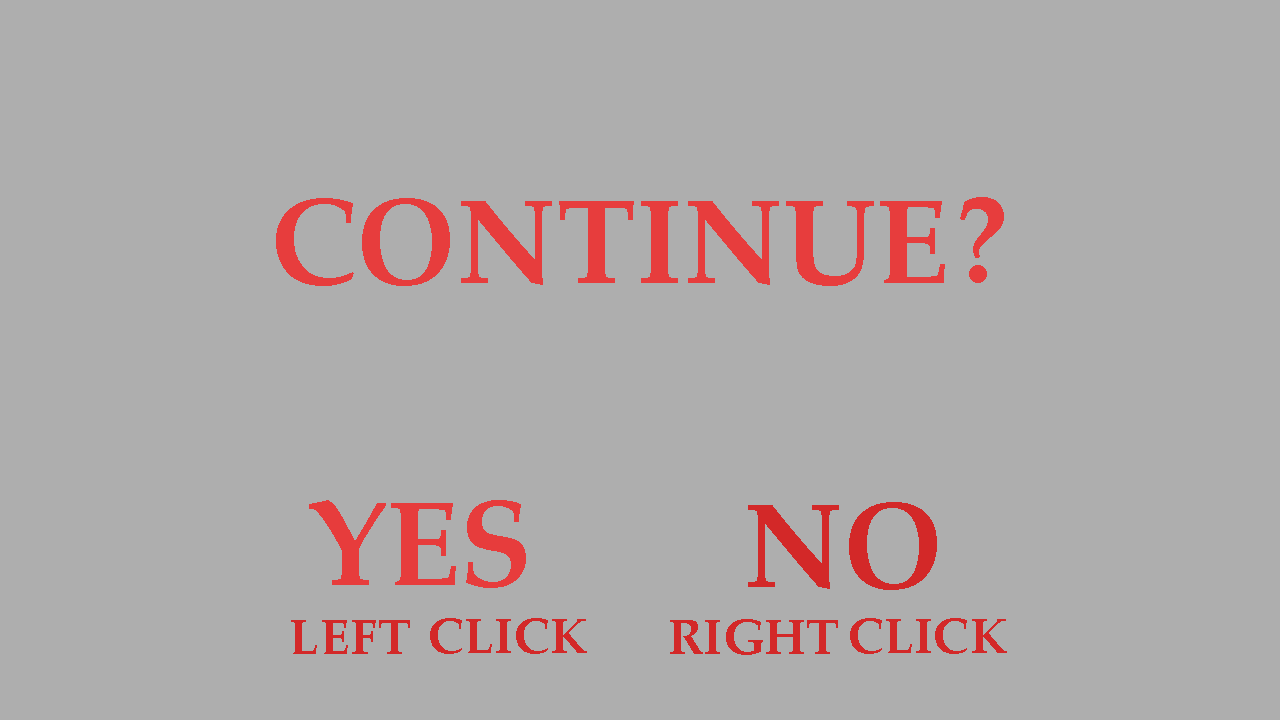
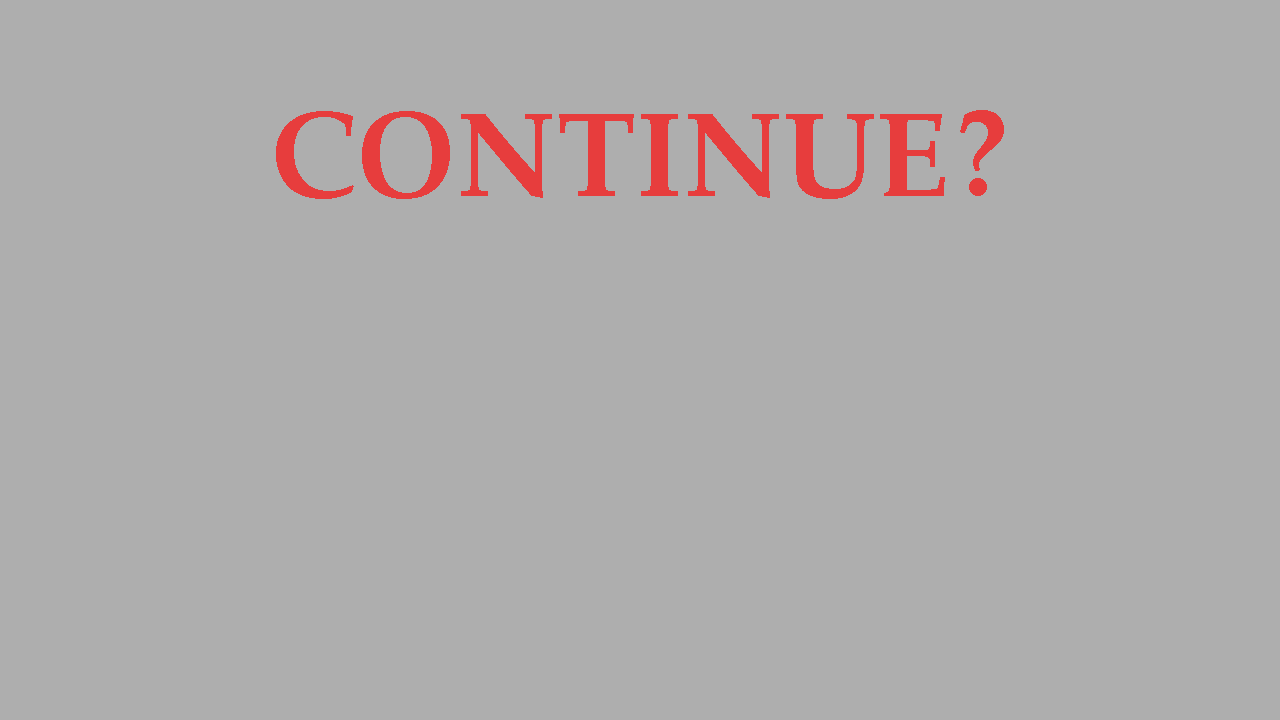
リソースの変更 コンテニュー画面の形変更 ゲーム画面の端に発砲の文字表示

diff --git a/Application/Scene/GameScene.cpp b/Application/Scene/GameScene.cpp
@@ -40,10 +40,20 @@ void GameScene::Initialize(DirectXCommon* dxComon)
 	Sprite::LoadTexture(30, L"Resources/DamageEfect.png");
 	Sprite::LoadTexture(31, L"Resources/Mision.png");
 	Sprite::LoadTexture(32, L"Resources/CONTINUE.png");
+	Sprite::LoadTexture(33, L"Resources/Shot.png");
+	Sprite::LoadTexture(34, L"Resources/mark2.png");
+	Sprite::LoadTexture(35, L"Resources/Yes.png");
+	Sprite::LoadTexture(36, L"Resources/No.png");
+
 	//スプライトの生成
 	DamageEfectSp.reset(Sprite::SpriteCreate(30, { 0.0f, 0.0f }, DamageEfectColor));
 	Clear.reset(Sprite::SpriteCreate(31, { 0.0f,0.0f }));
 	Conteniu.reset(Sprite::SpriteCreate(32, { 0.0f,0.0f }));
+	Shot.reset(Sprite::SpriteCreate(33, { 0.f,WinApp::window_height - 150 }));
+	ReticleForGameOver.reset(Sprite::SpriteCreate(34, ReticlePosition, ReticleColor, SpriteAnchorPoint));
+	Yes.reset(Sprite::SpriteCreate(35, YesPosition,YesColor,SpriteAnchorPoint));
+	No.reset(Sprite::SpriteCreate(36, NoPosition,NoColor,SpriteAnchorPoint));
+
 
 	//モデルの読み込み
 	Sphere = Object3d::Create(ModelManager::GetInstance()->GetModel(6));
@@ -165,7 +175,7 @@ void GameScene::StatusSet()
 	for (int i = 2; i < 5; i++) {
 		lightGroupe->SetSpotLightDir(i, XMVECTOR({ SearchLightDir[i - 2].x, SearchLightDir[i - 2].y, SearchLightDir[i - 2].z }));
 		lightGroupe->SetSpotLightPos(i, SearchLightPos[i - 2]);
-		lightGroupe->SetSpotLightColor(i, SearchLightColor[i-2]);
+		lightGroupe->SetSpotLightColor(i, SearchLightColor[i - 2]);
 		lightGroupe->SetSpotLightAtten(i, SearchLightAtten);
 		lightGroupe->SetSpotLightFactorAngle(i, SearchLightFactorAngle);
 	}
@@ -247,17 +257,7 @@ void GameScene::Update()
 			}
 		}
 	}
-	if (DethFlag == true) {
-		PostCol.x = 0;
-		if (Mouse::GetInstance()->PushClick(1)) {
-			BaseScene* scene_ = new TitleScene(sceneManager_);
-			sceneManager_->SetNextScene(scene_);
-		}
-		else if (Mouse::GetInstance()->PushClick(0)) {
-			BaseScene* scene_ = new GameScene(sceneManager_);
-			sceneManager_->SetNextScene(scene_);
-		}
-	}
+
 
 	if (DamageHitFlag == true) {
 		DamageEfectColor.w -= 0.02f;
@@ -277,15 +277,21 @@ void GameScene::Update()
 		StatusSet();
 		AllUpdata();
 	}
+	else if(StopUpdateFlag==true&&ClearFlag==false)
+	{
+		GameOverProcess();
+	}
 	//ゴールに着いたらクリア画面を表示
 	if (ClearFlag == true) {
-		if (Mouse::GetInstance()->PushClick(0)) {
+		if (Mouth::GetInstance()->PushClick(0)) {
 			BaseScene* scene_ = new TitleScene(sceneManager_);
 			sceneManager_->SetNextScene(scene_);
 		}
 	}
 	postEffect->Update(PostCol);
 	lightGroupe->Update();
+
+	
 }
 
 //オブジェクトの描画処理
@@ -313,6 +319,7 @@ void GameScene::ObjDraw(DirectXCommon* dxCommon)
 void GameScene::SpriteDraw(DirectXCommon* dxCommon)
 {
 	Sprite::PreDraw(dxCommon->GetCmdList());
+	Shot->Draw();
 	Act->SpriteDraw();
 	if (DamageHitFlag == true) {
 		DamageEfectSp->Draw();
@@ -322,6 +329,19 @@ void GameScene::SpriteDraw(DirectXCommon* dxCommon)
 	}
 	if (DethFlag == true) {
 		Conteniu->Draw();
+		//if (NoCursorInFlag == false) {
+			No->Draw();
+		//}
+		/*else {
+			NoAfter->Draw();
+		}*/
+		//if (YesCursorInFlag == false) {
+			Yes->Draw();
+		//}
+		/*else {
+			YesAfter->Draw();
+		}*/
+		ReticleForGameOver->Draw();
 	}
 	Sprite::PostDraw();
 }
@@ -382,6 +402,7 @@ void GameScene::Finalize()
 	delete postEffect;
 	Conteniu.reset();
 	Clear.reset();
+	Shot.reset();
 	delete Bgm;
 	delete light;
 	delete lightGroupe;
@@ -447,34 +468,11 @@ void GameScene::SpotLightMove()
 	SearchLightDir[1].z = Action::GetInstance()->EasingOut(LightDirEasingTime, 5 - 0);
 	SearchLightDir[2].x = Action::GetInstance()->EasingOut(LightDirEasingTime, 5 - 0);
 
-	Action::GetInstance()->DebugMove(SearchLightPos[0]);
-	Action::GetInstance()->DebugMove(SearchLightDir[0]);
-
-	if (Input::GetInstance()->PushKey(DIK_UP)) {
-		SearchLightDir[0].y += 0.1f;
-	}
-	if (Input::GetInstance()->PushKey(DIK_DOWN)) {
-		SearchLightDir[0].y -= 0.1f;
-	}
-	if (Input::GetInstance()->PushKey(DIK_RIGHT)) {
-		SearchLightDir[0].x += 0.1f;
-	}
-	if (Input::GetInstance()->PushKey(DIK_LEFT)) {
-		SearchLightDir[0].x -= 0.1f;
-	}
-	if (Input::GetInstance()->PushKey(DIK_L)) {
-		SearchLightDir[0].z += 0.1f;
-	}
-	if (Input::GetInstance()->PushKey(DIK_M)) {
-		SearchLightDir[0].z -= 0.1f;
-	}
-
-
 	SearchLightDir[0].z = Action::GetInstance()->EasingOut(time, EndPointZ - StartPointZ);
 	SearchLightDir[1].x = Action::GetInstance()->EasingOut(time, EndPointX - StartPointX);
 	SearchLightDir[2].z = Action::GetInstance()->EasingOut(time, EbdPointZ2 - StartPointZ2);
 
-	
+
 
 	bool MoveFlag = Act->GetMove();
 
@@ -486,7 +484,7 @@ void GameScene::SpotLightMove()
 			ColorTimeRed += 0.01f;
 		}
 
-		FieldSpotLightColor.x = Action::GetInstance()->EasingOut(ColorTimeRed,EndColorRed-StartColorRed ) + 0.9f;
+		FieldSpotLightColor.x = Action::GetInstance()->EasingOut(ColorTimeRed, EndColorRed - StartColorRed) + 0.9f;
 		FieldSpotLightColor.y = Action::GetInstance()->EasingOut(ColorTime, EndColor - StartColor);
 	}
 
@@ -503,6 +501,53 @@ void GameScene::SpotLightMove()
 			Easing = false;
 			EasingChange = false;
 		}
+	}
+}
+
+void GameScene::GameOverProcess()
+{
+
+	Mouth::GetInstance()->MouthMoveSprite(ReticlePosition);
+	ReticleForGameOver->SetPosition(ReticlePosition);
+	if (DethFlag == true) {
+		PostCol.x = 0;
+		CheckcCursorIn(ReticlePosition, YesPosition, 100, 50, YesCursorInFlag);
+		CheckcCursorIn(ReticlePosition, NoPosition, 100, 50, NoCursorInFlag);
+
+		if (YesCursorInFlag == true) {
+			YesColor = { 1.f,0.f,0.f,1.f };
+			if (Mouth::GetInstance()->PushClick(0)) {
+				BaseScene* scene_ = new GameScene(sceneManager_);
+				sceneManager_->SetNextScene(scene_);
+			}
+		}
+		else {
+			YesColor = { 1.f,1.f,1.f,1.f };
+		}
+
+		if (NoCursorInFlag == true) {
+			NoColor = { 1.f,0.f,0.f,1.f };
+			if (Mouth::GetInstance()->PushClick(0)) {
+				BaseScene* scene_ = new TitleScene(sceneManager_);
+				sceneManager_->SetNextScene(scene_);
+			}
+		}
+		else {
+			NoColor = { 1.f,1.f,1.f,1.f };
+		}
+		Yes->SetColor(YesColor);
+		No->SetColor(NoColor);
+	}
+}
+
+void GameScene::CheckcCursorIn(const XMFLOAT2& cursor_Pos, const XMFLOAT2& check_Pos, float radX, float radY, bool& CheckFlag)
+{
+	if ((check_Pos.x-radX <= cursor_Pos.x && check_Pos.x + radX >= cursor_Pos.x)
+		&& (check_Pos.y-radY<= cursor_Pos.y && check_Pos.y + radY >= cursor_Pos.y)) {
+		CheckFlag = true;
+	}
+	else {
+		CheckFlag = false;
 	}
 }
 

diff --git a/Application/Scene/GameScene.h b/Application/Scene/GameScene.h
@@ -38,63 +38,61 @@ public://メンバ関数
 	/// </summary>
 	/// <param name="sceneManager_"></param>
 	GameScene(SceneManager* sceneManager_);
-
 	/// <summary>
 	/// 初期化処理
 	/// </summary>
 	/// <param name="dxComon"></param>
 	void Initialize(DirectXCommon* dxComon) override;
-
 	/// <summary>
 	/// ステータスセット
 	/// </summary>
 	void StatusSet();
-
 	/// <summary>
 	/// オブジェクト等の全ての更新処理
 	/// </summary>
 	void AllUpdata();
-
 	/// <summary>
 	/// 更新処理
 	/// </summary>
 	void Update() override;
-
 	/// <summary>
 	/// オブジェクトの描画
 	/// </summary>
 	/// <param name="dxCommon">dxCommonからコマンドリストをゲット</param>
 	void ObjDraw(DirectXCommon* dxCommon);
-
 	/// <summary>
 	/// スプライトの描画
 	/// </summary>
 	/// <param name="dxCommon">dxCommonからコマンドリストをゲット</param>
 	void SpriteDraw(DirectXCommon* dxCommon);
-
 	/// <summary>
 	/// ImgUI描画
 	/// </summary>
 	void ImgDraw();
-
 	/// <summary>
 	/// ポストエフェクトの描画
 	/// </summary>
 	/// <param name="dxCommon">dxCommonからコマンドリストをゲット</param>
 	void PostEffectDraw(DirectXCommon* dxCommon);
-
 	/// <summary>
 	/// 描画処理
 	/// </summary>
 	/// <param name="dxCommon">dxCommonからコマンドリストをゲット</param>
 	void Draw(DirectXCommon* dxCommon)override;
-
 	/// <summary>
 	/// 終了処理
 	/// </summary>
 	void Finalize() override;
-
+	/// <summary>
+	/// スポットライトの動き
+	/// </summary>
 	void SpotLightMove();
+	/// <summary>
+	/// ゲームオーバー時の処理
+	/// </summary>
+	void GameOverProcess();
+
+	void CheckcCursorIn(const XMFLOAT2& cursor_Pos, const XMFLOAT2& check_Pos, float radX, float radY,bool& CheckFlag);
 private://メンバ変数
 	//Obj
 	unique_ptr <Object3d> Sphere;
@@ -107,6 +105,10 @@ private://メンバ変数
 	unique_ptr<Sprite> Clear = nullptr;
 	unique_ptr<Sprite> Conteniu = nullptr;
 	unique_ptr<Sprite> DamageEfectSp = nullptr;
+	unique_ptr<Sprite> Shot = nullptr;
+	unique_ptr<Sprite> ReticleForGameOver = nullptr;
+	unique_ptr<Sprite> Yes = nullptr;
+	unique_ptr<Sprite> No = nullptr;
 	//その他の機能
 	Audio* Bgm = nullptr;
 	PostEffect* postEffect = nullptr;
@@ -164,8 +166,8 @@ private://メンバ変数
 	XMFLOAT3 SearchLightColor[3];
 	XMFLOAT3 SearchLightAtten = { 0.f,0.f,0.f };
 	XMFLOAT2 SearchLightFactorAngle = { 20.0f,30.0f };
-	
-	bool SpotLightPositionChange=false;
+
+	bool SpotLightPositionChange = false;
 	bool LightPositionChangeX[2];
 	bool LightPositionChangeZ[2];
 
@@ -197,5 +199,17 @@ private://メンバ変数
 
 	float LightDirEasingTime = 0.f;
 	bool LightDirEasingChane = false;
+
+	XMFLOAT2 ReticlePosition{ 0.f,0.f };
+	XMFLOAT4 ReticleColor{ 1.f,1.f,1.f,1.f };
+	XMFLOAT2 SpriteAnchorPoint{ 0.5f,0.5f };
+
+	XMFLOAT2 YesPosition{ WinApp::window_width / 2 - 200,WinApp::window_height / 2 + 100 };
+	XMFLOAT2 NoPosition{ WinApp::window_width / 2 + 200,WinApp::window_height / 2 + 100 };
+	XMFLOAT2 SpriteSize{ 240.f,240.f };
+	XMFLOAT4 YesColor{ 1.f,1.f,1.f,1.f };
+	XMFLOAT4 NoColor{ 1.f,1.f,1.f,1.f };
+	bool YesCursorInFlag = false;
+	bool NoCursorInFlag = false;
 };
 

diff --git a/GameEngine/Framework/Framework.cpp b/GameEngine/Framework/Framework.cpp
@@ -39,7 +39,7 @@ void Framework::Initialize()
 	dxCommon->Initialize(winApp);
 	input = Input::GetInstance();
 	input->Initialize(winApp);
-	mouse = Mouse::GetInstance();
+	mouse = Mouth::GetInstance();
 	mouse->Initialize(winApp);
 	camera = new DebugCamera(WinApp::window_width,WinApp::window_height);
 

diff --git a/Application/Scene/DebugScene.h b/Application/Scene/DebugScene.h
@@ -9,7 +9,7 @@
 #include"ParticleManager.h"
 #include"Player.h"
 #include"Light.h"
-#include"Mouse.h"
+#include"Mouth.h"
 #include"Texture.h"
 #include<memory>
 

diff --git a/Application/Actor/Actor.cpp b/Application/Actor/Actor.cpp
@@ -477,3 +477,4 @@ void Actor::CheckSameTrackPosition()
 
 
 }
+
